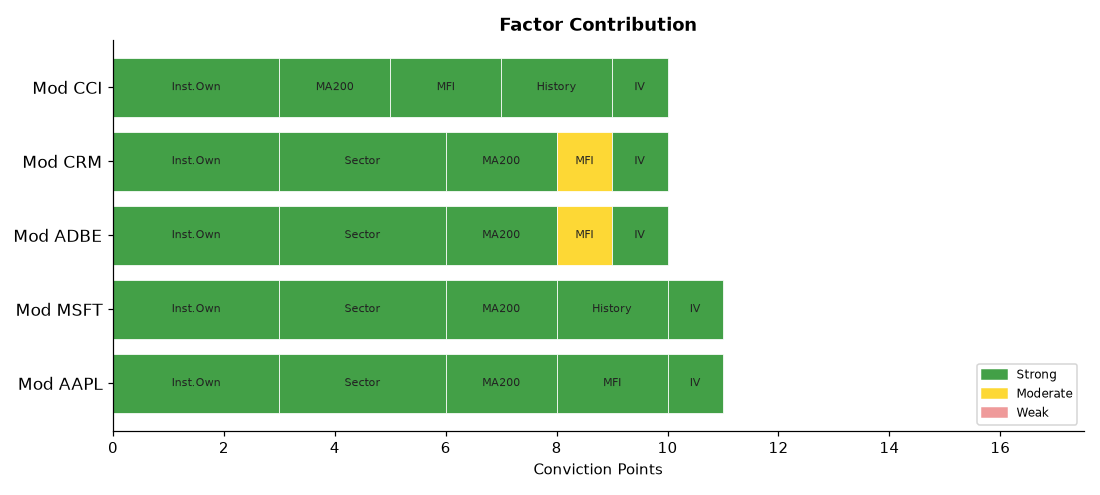
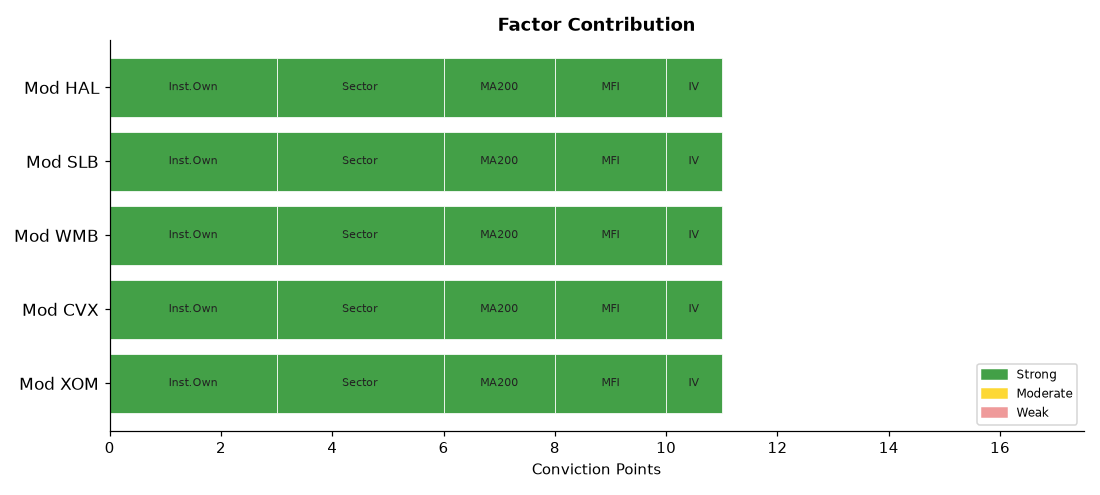
deploy: b7fadf5b06deb90e7ebb92f278722414bdd9750d

diff --git a/index.html b/index.html
@@ -4,7 +4,7 @@
   <meta charset="UTF-8">
   <meta name="viewport" content="width=device-width,initial-scale=1">
   <meta http-equiv="Cache-Control" content="no-cache,no-store,must-revalidate">
-  <title>Stock Breakout Screener — 2026-10-28 18:37</title>
+  <title>Stock Breakout Screener — 2026-10-28 18:57</title>
   <style>
     *{box-sizing:border-box;margin:0;padding:0}
     body{font-family:'Segoe UI',Arial,sans-serif;background:#f0f2f5;
@@ -34,7 +34,7 @@
 
 <div class="hdr">
   <h1>📈 Stock Breakout Screener</h1>
-  <p>Updated: 2026-10-28 18:37 UTC &nbsp;·&nbsp; Phase: Regular Market Hours &nbsp;·&nbsp;
+  <p>Updated: 2026-10-28 18:57 UTC &nbsp;·&nbsp; Phase: Regular Market Hours &nbsp;·&nbsp;
      129 stocks screened &nbsp;·&nbsp; Top 5 by conviction score</p>
 </div>
 
@@ -60,8 +60,8 @@
           <div style="display:flex;align-items:center;gap:10px;
                       flex-wrap:wrap;margin-bottom:10px">
             <span style="font-size:22px">🟡</span>
-            <span style="font-size:19px;font-weight:700">1. AAPL</span>
-            <span style="font-size:12px;color:#666">Technology</span>
+            <span style="font-size:19px;font-weight:700">1. XOM</span>
+            <span style="font-size:12px;color:#666">Energy</span>
             <span style="margin-left:auto;background:#1a237e;color:#fff;
                          padding:3px 12px;border-radius:12px;
                          font-size:13px;font-weight:600">
@@ -69,7 +69,7 @@
             </span>
           </div>
           <ul style="margin:0;padding-left:18px;font-size:13px;
-                     color:#333;line-height:1.8"><li style="margin:5px 0"><span style="background:#ffebee;color:#b71c1c;padding:2px 7px;border-radius:4px;font-size:11px;">❌</span> Volume: <b>0.3× average</b> — Above-average activity</li><li style="margin:5px 0"><span style="background:#ffebee;color:#b71c1c;padding:2px 7px;border-radius:4px;font-size:11px;">❌</span> Candle: close <b>$344.97</b> vs open <b>$346.89</b> (-0.6%) — regular market close</li><li style="margin:5px 0"><span style="background:#e8f5e9;color:#2e7d32;padding:2px 7px;border-radius:4px;font-size:11px;">✅</span> 200-Day MA: price <b>$344.97</b> vs MA <b>$315.13</b> — <b>✅ Above</b> long-term trend</li><li style="margin:5px 0"><span style="background:#e8f5e9;color:#2e7d32;padding:2px 7px;border-radius:4px;font-size:11px;">✅</span> Inst. ownership: <b>66.4%</b> · MFI: <b>62.3</b> · Market cap: <b>$5034.3B</b></li></ul>
+                     color:#333;line-height:1.8"><li style="margin:5px 0"><span style="background:#ffebee;color:#b71c1c;padding:2px 7px;border-radius:4px;font-size:11px;">❌</span> Volume: <b>0.4× average</b> — Above-average activity</li><li style="margin:5px 0"><span style="background:#ffebee;color:#b71c1c;padding:2px 7px;border-radius:4px;font-size:11px;">❌</span> Candle: close <b>$182.65</b> vs open <b>$180.59</b> (+1.1%) — regular market close</li><li style="margin:5px 0"><span style="background:#e8f5e9;color:#2e7d32;padding:2px 7px;border-radius:4px;font-size:11px;">✅</span> 200-Day MA: price <b>$182.65</b> vs MA <b>$155.65</b> — <b>✅ Above</b> long-term trend</li><li style="margin:5px 0"><span style="background:#e8f5e9;color:#2e7d32;padding:2px 7px;border-radius:4px;font-size:11px;">✅</span> Inst. ownership: <b>67.0%</b> · MFI: <b>67.8</b> · Market cap: <b>$751.0B</b></li></ul>
         </div>
         <div style="background:#fff;border:1px solid #ddd;border-radius:10px;
                     padding:16px 20px;margin-bottom:12px;
@@ -77,8 +77,8 @@
           <div style="display:flex;align-items:center;gap:10px;
                       flex-wrap:wrap;margin-bottom:10px">
             <span style="font-size:22px">🟡</span>
-            <span style="font-size:19px;font-weight:700">2. MSFT</span>
-            <span style="font-size:12px;color:#666">Technology</span>
+            <span style="font-size:19px;font-weight:700">2. CVX</span>
+            <span style="font-size:12px;color:#666">Energy</span>
             <span style="margin-left:auto;background:#1a237e;color:#fff;
                          padding:3px 12px;border-radius:12px;
                          font-size:13px;font-weight:600">
@@ -86,7 +86,7 @@
             </span>
           </div>
           <ul style="margin:0;padding-left:18px;font-size:13px;
-                     color:#333;line-height:1.8"><li style="margin:5px 0"><span style="background:#ffebee;color:#b71c1c;padding:2px 7px;border-radius:4px;font-size:11px;">❌</span> Volume: <b>0.3× average</b> — Above-average activity</li><li style="margin:5px 0"><span style="background:#ffebee;color:#b71c1c;padding:2px 7px;border-radius:4px;font-size:11px;">❌</span> Candle: close <b>$529.94</b> vs open <b>$532.20</b> (-0.4%) — regular market close</li><li style="margin:5px 0"><span style="background:#e8f5e9;color:#2e7d32;padding:2px 7px;border-radius:4px;font-size:11px;">✅</span> 200-Day MA: price <b>$529.94</b> vs MA <b>$453.31</b> — <b>✅ Above</b> long-term trend</li><li style="margin:5px 0"><span style="background:#e8f5e9;color:#2e7d32;padding:2px 7px;border-radius:4px;font-size:11px;">✅</span> Inst. ownership: <b>75.8%</b> · MFI: <b>38.0</b> · Market cap: <b>$3934.4B</b></li><li style="margin:5px 0"><span style="background:#e8f5e9;color:#2e7d32;padding:2px 7px;border-radius:4px;font-size:11px;">✅</span> Last similar breakout: <b>Jul 30, 2026</b> → <b>+10.1%</b> over 10 trading days</li></ul>
+                     color:#333;line-height:1.8"><li style="margin:5px 0"><span style="background:#ffebee;color:#b71c1c;padding:2px 7px;border-radius:4px;font-size:11px;">❌</span> Volume: <b>0.4× average</b> — Above-average activity</li><li style="margin:5px 0"><span style="background:#ffebee;color:#b71c1c;padding:2px 7px;border-radius:4px;font-size:11px;">❌</span> Candle: close <b>$230.55</b> vs open <b>$228.88</b> (+0.7%) — regular market close</li><li style="margin:5px 0"><span style="background:#e8f5e9;color:#2e7d32;padding:2px 7px;border-radius:4px;font-size:11px;">✅</span> 200-Day MA: price <b>$230.55</b> vs MA <b>$194.97</b> — <b>✅ Above</b> long-term trend</li><li style="margin:5px 0"><span style="background:#e8f5e9;color:#2e7d32;padding:2px 7px;border-radius:4px;font-size:11px;">✅</span> Inst. ownership: <b>71.2%</b> · MFI: <b>80.6</b> · Market cap: <b>$452.5B</b></li></ul>
         </div>
         <div style="background:#fff;border:1px solid #ddd;border-radius:10px;
                     padding:16px 20px;margin-bottom:12px;
@@ -94,16 +94,16 @@
           <div style="display:flex;align-items:center;gap:10px;
                       flex-wrap:wrap;margin-bottom:10px">
             <span style="font-size:22px">🟡</span>
-            <span style="font-size:19px;font-weight:700">3. ADBE</span>
-            <span style="font-size:12px;color:#666">Technology</span>
+            <span style="font-size:19px;font-weight:700">3. WMB</span>
+            <span style="font-size:12px;color:#666">Energy</span>
             <span style="margin-left:auto;background:#1a237e;color:#fff;
                          padding:3px 12px;border-radius:12px;
                          font-size:13px;font-weight:600">
-              10/17
+              11/17
             </span>
           </div>
           <ul style="margin:0;padding-left:18px;font-size:13px;
-                     color:#333;line-height:1.8"><li style="margin:5px 0"><span style="background:#ffebee;color:#b71c1c;padding:2px 7px;border-radius:4px;font-size:11px;">❌</span> Volume: <b>0.3× average</b> — Above-average activity</li><li style="margin:5px 0"><span style="background:#ffebee;color:#b71c1c;padding:2px 7px;border-radius:4px;font-size:11px;">❌</span> Candle: close <b>$247.92</b> vs open <b>$244.25</b> (+1.5%) — regular market close</li><li style="margin:5px 0"><span style="background:#e8f5e9;color:#2e7d32;padding:2px 7px;border-radius:4px;font-size:11px;">✅</span> 200-Day MA: price <b>$247.92</b> vs MA <b>$244.47</b> — <b>✅ Above</b> long-term trend</li><li style="margin:5px 0"><span style="background:#e8f5e9;color:#2e7d32;padding:2px 7px;border-radius:4px;font-size:11px;">✅</span> Inst. ownership: <b>89.0%</b> · MFI: <b>51.1</b> · Market cap: <b>$96.5B</b></li></ul>
+                     color:#333;line-height:1.8"><li style="margin:5px 0"><span style="background:#ffebee;color:#b71c1c;padding:2px 7px;border-radius:4px;font-size:11px;">❌</span> Volume: <b>0.6× average</b> — Above-average activity</li><li style="margin:5px 0"><span style="background:#ffebee;color:#b71c1c;padding:2px 7px;border-radius:4px;font-size:11px;">❌</span> Candle: close <b>$74.71</b> vs open <b>$74.42</b> (+0.4%) — regular market close</li><li style="margin:5px 0"><span style="background:#e8f5e9;color:#2e7d32;padding:2px 7px;border-radius:4px;font-size:11px;">✅</span> 200-Day MA: price <b>$74.71</b> vs MA <b>$72.62</b> — <b>✅ Above</b> long-term trend</li><li style="margin:5px 0"><span style="background:#e8f5e9;color:#2e7d32;padding:2px 7px;border-radius:4px;font-size:11px;">✅</span> Inst. ownership: <b>91.8%</b> · MFI: <b>65.4</b> · Market cap: <b>$91.4B</b></li></ul>
         </div>
         <div style="background:#fff;border:1px solid #ddd;border-radius:10px;
                     padding:16px 20px;margin-bottom:12px;
@@ -111,16 +111,16 @@
           <div style="display:flex;align-items:center;gap:10px;
                       flex-wrap:wrap;margin-bottom:10px">
             <span style="font-size:22px">🟡</span>
-            <span style="font-size:19px;font-weight:700">4. CRM</span>
-            <span style="font-size:12px;color:#666">Technology</span>
+            <span style="font-size:19px;font-weight:700">4. SLB</span>
+            <span style="font-size:12px;color:#666">Energy</span>
             <span style="margin-left:auto;background:#1a237e;color:#fff;
                          padding:3px 12px;border-radius:12px;
                          font-size:13px;font-weight:600">
-              10/17
+              11/17
             </span>
           </div>
           <ul style="margin:0;padding-left:18px;font-size:13px;
-                     color:#333;line-height:1.8"><li style="margin:5px 0"><span style="background:#ffebee;color:#b71c1c;padding:2px 7px;border-radius:4px;font-size:11px;">❌</span> Volume: <b>0.2× average</b> — Above-average activity</li><li style="margin:5px 0"><span style="background:#ffebee;color:#b71c1c;padding:2px 7px;border-radius:4px;font-size:11px;">❌</span> Candle: close <b>$241.84</b> vs open <b>$237.52</b> (+1.8%) — regular market close</li><li style="margin:5px 0"><span style="background:#e8f5e9;color:#2e7d32;padding:2px 7px;border-radius:4px;font-size:11px;">✅</span> 200-Day MA: price <b>$241.84</b> vs MA <b>$199.86</b> — <b>✅ Above</b> long-term trend</li><li style="margin:5px 0"><span style="background:#e8f5e9;color:#2e7d32;padding:2px 7px;border-radius:4px;font-size:11px;">✅</span> Inst. ownership: <b>87.2%</b> · MFI: <b>53.1</b> · Market cap: <b>$199.1B</b></li><li style="margin:5px 0"><span style="background:#ffebee;color:#b71c1c;padding:2px 7px;border-radius:4px;font-size:11px;">❌</span> Last similar breakout: <b>Aug 27, 2026</b> → <b>-1.7%</b> over 10 trading days</li></ul>
+                     color:#333;line-height:1.8"><li style="margin:5px 0"><span style="background:#ffebee;color:#b71c1c;padding:2px 7px;border-radius:4px;font-size:11px;">❌</span> Volume: <b>0.5× average</b> — Above-average activity</li><li style="margin:5px 0"><span style="background:#ffebee;color:#b71c1c;padding:2px 7px;border-radius:4px;font-size:11px;">❌</span> Candle: close <b>$53.76</b> vs open <b>$53.87</b> (-0.2%) — regular market close</li><li style="margin:5px 0"><span style="background:#e8f5e9;color:#2e7d32;padding:2px 7px;border-radius:4px;font-size:11px;">✅</span> 200-Day MA: price <b>$53.76</b> vs MA <b>$51.94</b> — <b>✅ Above</b> long-term trend</li><li style="margin:5px 0"><span style="background:#e8f5e9;color:#2e7d32;padding:2px 7px;border-radius:4px;font-size:11px;">✅</span> Inst. ownership: <b>94.1%</b> · MFI: <b>66.1</b> · Market cap: <b>$79.4B</b></li><li style="margin:5px 0"><span style="background:#ffebee;color:#b71c1c;padding:2px 7px;border-radius:4px;font-size:11px;">❌</span> Last similar breakout: <b>Aug 31, 2026</b> → <b>-9.3%</b> over 10 trading days</li></ul>
         </div>
         <div style="background:#fff;border:1px solid #ddd;border-radius:10px;
                     padding:16px 20px;margin-bottom:12px;
@@ -128,16 +128,16 @@
           <div style="display:flex;align-items:center;gap:10px;
                       flex-wrap:wrap;margin-bottom:10px">
             <span style="font-size:22px">🟡</span>
-            <span style="font-size:19px;font-weight:700">5. CCI</span>
-            <span style="font-size:12px;color:#666">Real Estate</span>
+            <span style="font-size:19px;font-weight:700">5. HAL</span>
+            <span style="font-size:12px;color:#666">Energy</span>
             <span style="margin-left:auto;background:#1a237e;color:#fff;
                          padding:3px 12px;border-radius:12px;
                          font-size:13px;font-weight:600">
-              10/17
+              11/17
             </span>
           </div>
           <ul style="margin:0;padding-left:18px;font-size:13px;
-                     color:#333;line-height:1.8"><li style="margin:5px 0"><span style="background:#ffebee;color:#b71c1c;padding:2px 7px;border-radius:4px;font-size:11px;">❌</span> Volume: <b>0.7× average</b> — Above-average activity</li><li style="margin:5px 0"><span style="background:#ffebee;color:#b71c1c;padding:2px 7px;border-radius:4px;font-size:11px;">❌</span> Candle: close <b>$87.40</b> vs open <b>$87.86</b> (-0.5%) — regular market close</li><li style="margin:5px 0"><span style="background:#e8f5e9;color:#2e7d32;padding:2px 7px;border-radius:4px;font-size:11px;">✅</span> 200-Day MA: price <b>$87.40</b> vs MA <b>$79.01</b> — <b>✅ Above</b> long-term trend</li><li style="margin:5px 0"><span style="background:#e8f5e9;color:#2e7d32;padding:2px 7px;border-radius:4px;font-size:11px;">✅</span> Inst. ownership: <b>101.6%</b> · MFI: <b>66.2</b> · Market cap: <b>$38.2B</b></li><li style="margin:5px 0"><span style="background:#e8f5e9;color:#2e7d32;padding:2px 7px;border-radius:4px;font-size:11px;">✅</span> Last similar breakout: <b>Oct 09, 2026</b> → <b>+7.9%</b> over 10 trading days</li></ul>
+                     color:#333;line-height:1.8"><li style="margin:5px 0"><span style="background:#ffebee;color:#b71c1c;padding:2px 7px;border-radius:4px;font-size:11px;">❌</span> Volume: <b>0.6× average</b> — Above-average activity</li><li style="margin:5px 0"><span style="background:#ffebee;color:#b71c1c;padding:2px 7px;border-radius:4px;font-size:11px;">❌</span> Candle: close <b>$35.92</b> vs open <b>$35.66</b> (+0.7%) — regular market close</li><li style="margin:5px 0"><span style="background:#e8f5e9;color:#2e7d32;padding:2px 7px;border-radius:4px;font-size:11px;">✅</span> 200-Day MA: price <b>$35.92</b> vs MA <b>$35.64</b> — <b>✅ Above</b> long-term trend</li><li style="margin:5px 0"><span style="background:#e8f5e9;color:#2e7d32;padding:2px 7px;border-radius:4px;font-size:11px;">✅</span> Inst. ownership: <b>90.8%</b> · MFI: <b>71.3</b> · Market cap: <b>$29.7B</b></li></ul>
         </div>
 
 
@@ -168,93 +168,93 @@
   
         <tr>
           <td style="font-weight:700;text-align:left;padding-left:10px">
-            🟡 AAPL</td>
-          <td style="background:#ffcdd2">0.3×</td>
-          <td style="background:#ffcdd2">-0.6%</td>
+            🟡 XOM</td>
+          <td style="background:#ffcdd2">0.4×</td>
+          <td style="background:#ffcdd2">+1.1%</td>
           <td style="background:#c8e6c9">
             ▲ Above</td>
           <td style="background:#c8e6c9">
-            66.4%</td>
+            67.0%</td>
           <td style="background:#c8e6c9">
-            62.3</td>
-          <td style="background:#c8e6c9">Technology</td>
+            67.8</td>
+          <td style="background:#c8e6c9">Energy</td>
           <td style="background:#c8e6c9">
-            83.6%</td>
+            142.8%</td>
           <td style="background:#ffcdd2">
             N/A</td>
           <td style="font-weight:800;font-size:15px">11/17</td>
         </tr>
         <tr>
           <td style="font-weight:700;text-align:left;padding-left:10px">
-            🟡 MSFT</td>
-          <td style="background:#ffcdd2">0.3×</td>
-          <td style="background:#ffcdd2">-0.4%</td>
+            🟡 CVX</td>
+          <td style="background:#ffcdd2">0.4×</td>
+          <td style="background:#ffcdd2">+0.7%</td>
           <td style="background:#c8e6c9">
             ▲ Above</td>
           <td style="background:#c8e6c9">
-            75.8%</td>
+            71.2%</td>
+          <td style="background:#c8e6c9">
+            80.6</td>
+          <td style="background:#c8e6c9">Energy</td>
+          <td style="background:#c8e6c9">
+            82.3%</td>
           <td style="background:#ffcdd2">
-            38.0</td>
-          <td style="background:#c8e6c9">Technology</td>
-          <td style="background:#c8e6c9">
-            32.5%</td>
-          <td style="background:#c8e6c9">
-            +10.1%</td>
+            N/A</td>
           <td style="font-weight:800;font-size:15px">11/17</td>
         </tr>
         <tr>
           <td style="font-weight:700;text-align:left;padding-left:10px">
-            🟡 ADBE</td>
-          <td style="background:#ffcdd2">0.3×</td>
-          <td style="background:#ffcdd2">+1.5%</td>
+            🟡 WMB</td>
+          <td style="background:#ffcdd2">0.6×</td>
+          <td style="background:#ffcdd2">+0.4%</td>
           <td style="background:#c8e6c9">
             ▲ Above</td>
           <td style="background:#c8e6c9">
-            89.0%</td>
-          <td style="background:#fff9c4">
-            51.1</td>
-          <td style="background:#c8e6c9">Technology</td>
+            91.8%</td>
           <td style="background:#c8e6c9">
-            111.6%</td>
+            65.4</td>
+          <td style="background:#c8e6c9">Energy</td>
+          <td style="background:#c8e6c9">
+            98.6%</td>
           <td style="background:#ffcdd2">
             N/A</td>
-          <td style="font-weight:800;font-size:15px">10/17</td>
+          <td style="font-weight:800;font-size:15px">11/17</td>
         </tr>
         <tr>
           <td style="font-weight:700;text-align:left;padding-left:10px">
-            🟡 CRM</td>
-          <td style="background:#ffcdd2">0.2×</td>
-          <td style="background:#ffcdd2">+1.8%</td>
+            🟡 SLB</td>
+          <td style="background:#ffcdd2">0.5×</td>
+          <td style="background:#ffcdd2">-0.2%</td>
           <td style="background:#c8e6c9">
             ▲ Above</td>
           <td style="background:#c8e6c9">
-            87.2%</td>
-          <td style="background:#fff9c4">
-            53.1</td>
-          <td style="background:#c8e6c9">Technology</td>
+            94.1%</td>
           <td style="background:#c8e6c9">
-            129.3%</td>
+            66.1</td>
+          <td style="background:#c8e6c9">Energy</td>
+          <td style="background:#c8e6c9">
+            127.6%</td>
           <td style="background:#ffcdd2">
-            -1.7%</td>
-          <td style="font-weight:800;font-size:15px">10/17</td>
+            -9.3%</td>
+          <td style="font-weight:800;font-size:15px">11/17</td>
         </tr>
         <tr>
           <td style="font-weight:700;text-align:left;padding-left:10px">
-            🟡 CCI</td>
-          <td style="background:#ffcdd2">0.7×</td>
-          <td style="background:#ffcdd2">-0.5%</td>
+            🟡 HAL</td>
+          <td style="background:#ffcdd2">0.6×</td>
+          <td style="background:#ffcdd2">+0.7%</td>
           <td style="background:#c8e6c9">
             ▲ Above</td>
           <td style="background:#c8e6c9">
-            101.6%</td>
+            90.8%</td>
           <td style="background:#c8e6c9">
-            66.2</td>
-          <td style="background:#ffcdd2">Real Estate</td>
+            71.3</td>
+          <td style="background:#c8e6c9">Energy</td>
           <td style="background:#c8e6c9">
-            77.7%</td>
-          <td style="background:#c8e6c9">
-            +7.9%</td>
-          <td style="font-weight:800;font-size:15px">10/17</td>
+            113.5%</td>
+          <td style="background:#ffcdd2">
+            N/A</td>
+          <td style="font-weight:800;font-size:15px">11/17</td>
         </tr>
 </table>
 </div>
@@ -277,58 +277,58 @@
       
         <tr>
           <td style="text-align:left;padding-left:10px;font-weight:600">
-            #1 Technology</td>
-          <td style="background:#e8f5e9;color:#2e7d32;font-weight:700">+0.98%</td>
+            #1 Energy</td>
+          <td style="background:#e8f5e9;color:#2e7d32;font-weight:700">+0.76%</td>
         </tr>
         <tr>
           <td style="text-align:left;padding-left:10px;font-weight:600">
-            #2 Financials</td>
-          <td style="background:#ffebee;color:#c62828;font-weight:700">+nan%</td>
+            #2 Technology</td>
+          <td style="background:#e8f5e9;color:#2e7d32;font-weight:700">+0.58%</td>
         </tr>
         <tr>
           <td style="text-align:left;padding-left:10px;font-weight:600">
-            #3 Energy</td>
-          <td style="background:#e8f5e9;color:#2e7d32;font-weight:700">+0.59%</td>
+            #3 Healthcare</td>
+          <td style="background:#e8f5e9;color:#2e7d32;font-weight:700">+0.30%</td>
         </tr>
         <tr>
           <td style="text-align:left;padding-left:10px;font-weight:600">
-            #4 Industrials</td>
-          <td style="background:#e8f5e9;color:#2e7d32;font-weight:700">+0.49%</td>
+            #4 Financials</td>
+          <td style="background:#e8f5e9;color:#2e7d32;font-weight:700">+0.22%</td>
         </tr>
         <tr>
           <td style="text-align:left;padding-left:10px;font-weight:600">
-            #5 Healthcare</td>
-          <td style="background:#e8f5e9;color:#2e7d32;font-weight:700">+0.33%</td>
+            #5 Industrials</td>
+          <td style="background:#e8f5e9;color:#2e7d32;font-weight:700">+0.18%</td>
         </tr>
         <tr>
           <td style="text-align:left;padding-left:10px;font-weight:600">
-            #6 Consumer Disc</td>
-          <td style="background:#ffebee;color:#c62828;font-weight:700">-0.09%</td>
+            #6 Consumer Stpl</td>
+          <td style="background:#ffebee;color:#c62828;font-weight:700">-0.59%</td>
         </tr>
         <tr>
           <td style="text-align:left;padding-left:10px;font-weight:600">
-            #7 Materials</td>
-          <td style="background:#ffebee;color:#c62828;font-weight:700">-0.14%</td>
+            #7 Consumer Disc</td>
+          <td style="background:#ffebee;color:#c62828;font-weight:700">-0.62%</td>
         </tr>
         <tr>
           <td style="text-align:left;padding-left:10px;font-weight:600">
             #8 Comm. Services</td>
-          <td style="background:#ffebee;color:#c62828;font-weight:700">-0.34%</td>
+          <td style="background:#ffebee;color:#c62828;font-weight:700">-0.67%</td>
         </tr>
         <tr>
           <td style="text-align:left;padding-left:10px;font-weight:600">
-            #9 Consumer Stpl</td>
-          <td style="background:#ffebee;color:#c62828;font-weight:700">-0.36%</td>
+            #9 Materials</td>
+          <td style="background:#ffebee;color:#c62828;font-weight:700">-0.73%</td>
         </tr>
         <tr>
           <td style="text-align:left;padding-left:10px;font-weight:600">
             #10 Utilities</td>
-          <td style="background:#ffebee;color:#c62828;font-weight:700">-0.60%</td>
+          <td style="background:#ffebee;color:#c62828;font-weight:700">-0.92%</td>
         </tr>
         <tr>
           <td style="text-align:left;padding-left:10px;font-weight:600">
             #11 Real Estate</td>
-          <td style="background:#ffebee;color:#c62828;font-weight:700">-0.97%</td>
+          <td style="background:#ffebee;color:#c62828;font-weight:700">-1.33%</td>
         </tr>
     </table>
   </div>
@@ -367,7 +367,7 @@
         <li><b>Scoring weights:</b>
             Inst.Own(3) · Sector(3) · Volume(2) · Breakout(2) ·
             MA200(2) · MFI(2) · History(2) · IV(1) = 17pts max</li>
-        <li><b>Run time:</b> 2026-10-28 18:37 UTC — Market phase: Regular Market Hours</li>
+        <li><b>Run time:</b> 2026-10-28 18:57 UTC — Market phase: Regular Market Hours</li>
       </ul>
     </div>
 
